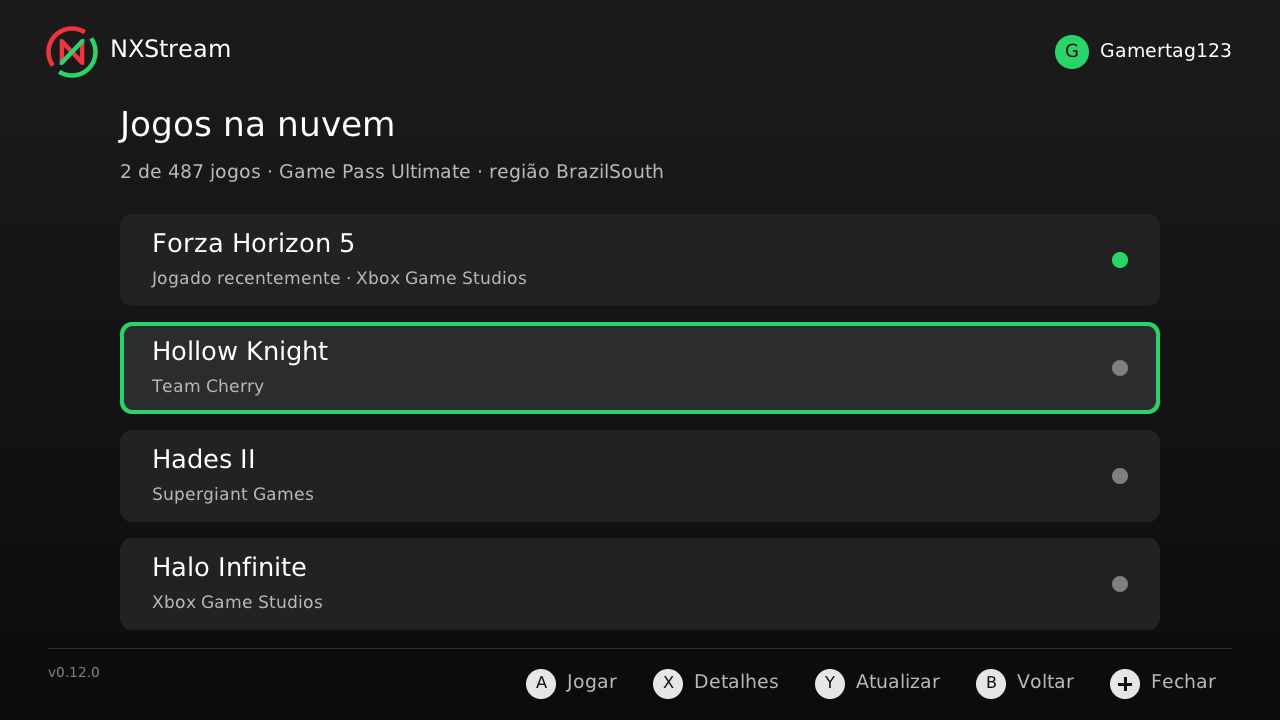
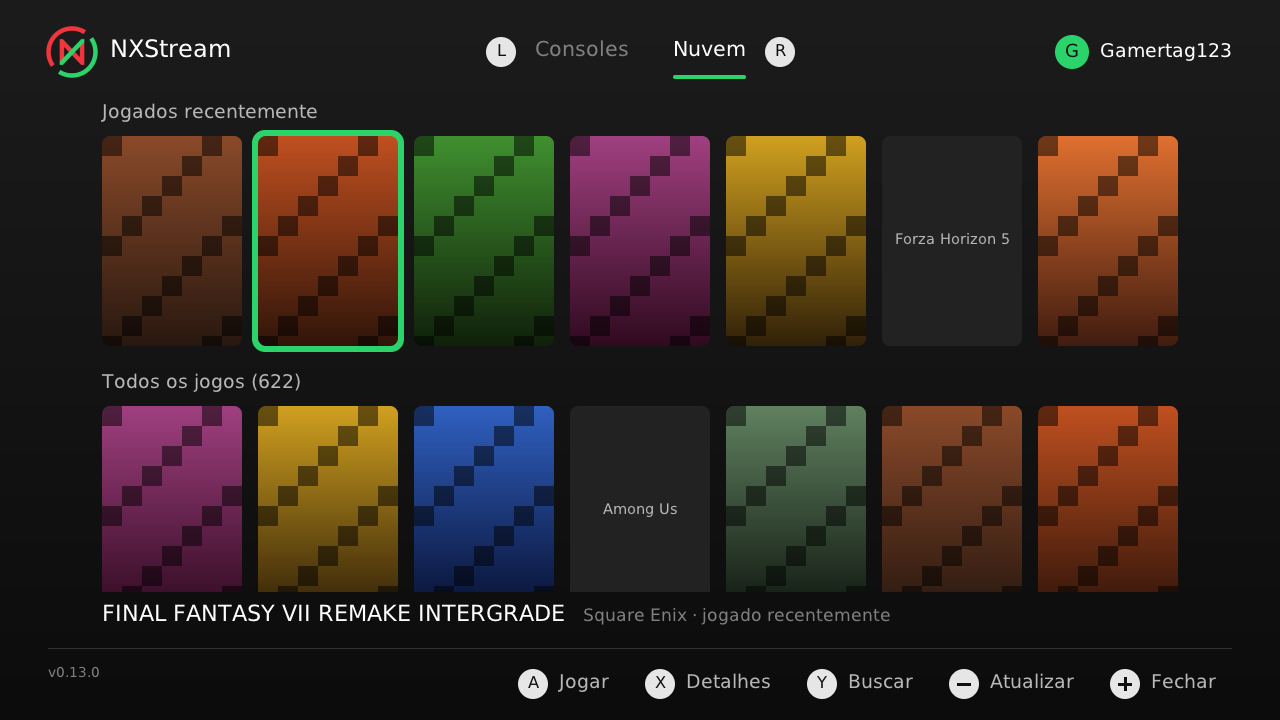
Docs da fase X3 (v0.13.0): roteiro, telas e plano
Claude-Session: https://claude.ai/code/session_016roCsQ17rNSZAvovzYvfdF

diff --git a/docs/XCLOUD.md b/docs/XCLOUD.md
@@ -42,6 +42,7 @@ Como no resto do projeto, cada fase termina com um `.nro` testado no Switch ante
 | X0 | v0.11.0 / v0.11.1 | Funcionou no Switch (25/11); v0.11.1 deixa a carga mais rápida |
 | X1 | v0.12.0 | Funcionou no Switch (25/11): Gears Tactics abriu e conectou na 1ª |
 | X2 | v0.12.1 / v0.12.2 | Funcionou (25/11): 11 min em 720p, 0 erros de decodificação |
+| X3 | v0.13.0 | Em teste no Switch |
 
 ### Detalhes por fase
 
@@ -117,6 +118,23 @@ Como no resto do projeto, cada fase termina com um `.nro` testado no Switch ante
 **X2 – Qualidade.** Hoje a recepção de vídeo pede quadro-chave quando algo se perde, o que na internet causaria travadas frequentes. Plano: medir primeiro (perda e atraso por segundo no log e nas estatísticas), depois implementar NACK do lado de quem recebe (a libdatachannel não traz pronto) e um buffer de reordenação de algumas dezenas de milissegundos. Em 720p (decisão abaixo) a taxa deve ficar perto da do Remote Play (~5–8 Mbps), e o decodificador já é folgado (2 ms por quadro).
 
 **X3 – Interface.** Capas exigem baixar e decodificar JPEG (habilitar JPEG no stb_image, hoje só PNG), reduzir para o tamanho do cartão e guardar no SD para as próximas aberturas. A grade carrega as imagens em segundo plano para a navegação não travar.
+
+**X3 – Como ficou (v0.13.0).** Decisões do usuário (25/11): faixa de recentes + grade, busca pelo teclado do Switch, abas no topo com L/R.
+- **Abas** "Consoles" e "Nuvem" no cabeçalho, com os botões L e R; L ou R troca. O app abre na última aba usada (`conta.json`, `"aba"`), como decidido no roadmap.
+- **Tela da nuvem** (`docs/telas/10_nuvem.png`): faixa "Jogados recentemente" (os 24 de `/v2/titles/mru`) e grade "Todos os jogos" em 7 colunas, por nome. Capas de 140x210, borda verde no selecionado, rolagem animada; nome, editora e "jogado recentemente" embaixo. Direcional com repetição ao segurar; da faixa para baixo vai à grade na mesma coluna.
+- **Capas** (`ui/capas.c`): o catálogo traz a URL do pôster (`Image_Poster`, ou `Image_Tile`); o servidor de imagens da loja entrega já em 140x210 (`?w=140&h=210&format=jpg`, ~15 KB). Duas threads baixam as visíveis primeiro (e a próxima linha), guardam em `/switch/NXStream/capas/<productId>.jpg` e decodificam (stb_image com JPEG). 64 capas na memória. Sem capa ainda, o cartão mostra o nome.
+- **Busca:** Y abre o teclado do Switch; a grade mostra só os jogos com o texto, sem diferenciar maiúsculas nem acentos ("pokemon" acha "Pokémon"). B limpa.
+- **Outros botões:** A joga, X detalhes, − recarrega a lista, + fecha.
+- O cache de nomes passou para a versão 2 (com a capa): na 1ª abertura da v0.13.0 o catálogo é consultado de novo (~20 s, uma vez).
+- Fila: continua a tela de conexão com "Na fila para jogar" e a espera estimada (X1).
+
+| Teste (v0.13.0) | Resultado esperado | Resultado obtido |
+|---|---|---|
+| Abrir a aba Nuvem (L/R) | Faixa de recentes e grade; capas aparecendo em poucos segundos | |
+| Fechar e abrir o app | Abre direto na aba Nuvem; capas já vêm do SD | |
+| Rolar a grade segurando o direcional | Rolagem suave, sem travar; capas chegando | |
+| Y e buscar "minecraft" | Só os Minecraft; B volta a todos | |
+| A num jogo | Abre o jogo como antes; ao sair, volta no mesmo jogo | |
 
 **X4 – Reconexão.** O ponto mais incerto. Investigar se uma sessão de nuvem continua viva depois da queda e se aceita nova conexão (no Remote Play não aceita), ou se `/v5/sessions/cloud/active` permite retomar o mesmo jogo. Se não der para retomar, avisar o usuário antes de abrir sessão nova, porque o jogo pode recomeçar do último salvamento.
 

diff --git a/docs/PLANO.md b/docs/PLANO.md
@@ -18,6 +18,7 @@
 - **v0.11.0** (25/11): início do xCloud, fase X0 (`docs/XCLOUD.md`): R na lista de consoles abre a lista dos jogos da nuvem. Funcionou: 622 jogos, Ultimate, região BRAZILSOUTH, mas em 20 s.
 - **v0.11.1**: carga da nuvem mais rápida (gzip, nomes no SD): 2ª abertura em 5,7 s.
 - **v0.11.4**: grava no log o motivo quando o Xbox encerra a conexão.
+- **v0.13.0**: xCloud fase X3: abas Consoles/Nuvem (L/R, abre na última), faixa de recentes, grade de capas, busca pelo teclado.
 - **v0.12.6**: sem as tentativas de sessão durante a espera (prendiam 90 s); sessão presa com o Xbox ligado é refeita.
 - **v0.12.5**: espera do Xbox ligar mais rápida (lista a cada 2 s e tentativa de sessão a cada 8 s).
 - **v0.12.4**: tela "O Xbox está desligado" que conecta sozinha quando o console é ligado pelo botão; abertura sem tentativa à toa.
@@ -29,7 +30,7 @@
 - **v0.11.3**: Xbox desligado aparece assim na lista; nuvem sem renovar a conta à toa.
 - **v0.11.2**: com o Xbox desligado (não em repouso), o erro aparece na hora com o que fazer; "Tentar de novo" depois de um erro de sessão não segue mais com a sessão que falhou.
 - **23/11:** repositório público (Actions sem cota). Antes, o histórico foi reescrito para tirar um dado pessoal dos testes; quem tinha um clone precisa clonar de novo.
-- Próximo passo do xCloud: fase X3 (interface da nuvem: aba, capas, busca, recentes, tela de fila).
+- Próximo passo do xCloud: o usuário testar a v0.13.0 (interface da nuvem); depois, fase X4 (reconexão sem reiniciar o jogo).
 - Fase 4: o usuário testar no dia a dia (repouso, Wi-Fi, HOME, sessão longa) e mandar os logs; com a fase 4 validada, juntar `fase-4` na `main` e seguir para a fase 5 (vibração, mapeamento configurável, opções).
 - Dicas registradas: para atualizar, copiar só o `NXStream.nro` (o `token.json` guarda o login entre versões); o preto em 16 (faixa limitada) é o correto no OLED.
 

diff --git a/docs/TELAS.md b/docs/TELAS.md
@@ -22,7 +22,7 @@ Para atualizar depois de mudar a interface: `make -C tests/ui` e copiar `tests/u
 | | |
 |---|---|
 | ![Login](telas/3_codigo.png) | ![Lista](telas/6_lista.png) |
-| **Login.** Código para digitar em microsoft.com/link no celular; A abre a página no navegador do Switch, já com o código. | **Lista de consoles.** Gamertag no canto, estado de cada console (bolinha verde: ligado; amarela: em repouso). Com um só console, a lista é pulada. |
+| **Login.** Código para digitar em microsoft.com/link no celular; A abre a página no navegador do Switch, já com o código. | **Lista de consoles.** Abas Consoles/Nuvem no topo (L/R), gamertag no canto, estado de cada console (bolinha verde: ligado; amarela: em repouso). Com um só console, a lista é pulada. |
 | ![Lista vazia](telas/7_lista_vazia.png) | ![Sair da conta](telas/5_aviso.png) |
 | **Nenhum console.** Explica onde ativar os recursos remotos no Xbox. | **Confirmação.** Perguntas e avisos com ícone. |
 
@@ -31,7 +31,7 @@ Para atualizar depois de mudar a interface: `make -C tests/ui` e copiar `tests/u
 | | |
 |---|---|
 | ![Jogos na nuvem](telas/10_nuvem.png) | |
-| **Jogos na nuvem** (R na lista de consoles, desde a v0.11.0). Jogos liberados para a conta, recentes no topo com bolinha verde; posição, plano e região no subtítulo. A abre o jogo (desde a v0.12.0), X mostra os detalhes. | |
+| **Jogos na nuvem** (aba Nuvem, desde a v0.13.0). Faixa de recentes e grade com as capas dos jogos liberados para a conta; o selecionado tem borda verde e o nome embaixo. A joga, X detalhes, Y busca pelo teclado do Switch. Capas falsas na imagem; no Switch, as do catálogo. | |
 
 ## Durante o jogo
 

diff --git a/README.md b/README.md
@@ -45,7 +45,7 @@ Rendered from the app's own UI code on a PC (`make -C tests/ui`); on the Switch 
 ## Requirements
 
 - A Switch running custom firmware (Atmosphère) with the Homebrew Menu
-- Your Xbox and Switch on the **same network** (xCloud support is in progress: since version 0.12.0 you can list and start cloud games; see the [xCloud roadmap](docs/XCLOUD.md), in Portuguese)
+- Your Xbox and Switch on the **same network** (xCloud support is in progress: since version 0.13.0 there is a Cloud tab with covers, recent games and search; see the [xCloud roadmap](docs/XCLOUD.md), in Portuguese)
 - **Remote features** enabled on the Xbox: *Settings › Devices & connections › Remote features › Enable remote features*, with the power mode set to *Sleep* if you want to wake it from standby
 
 ## Installation
